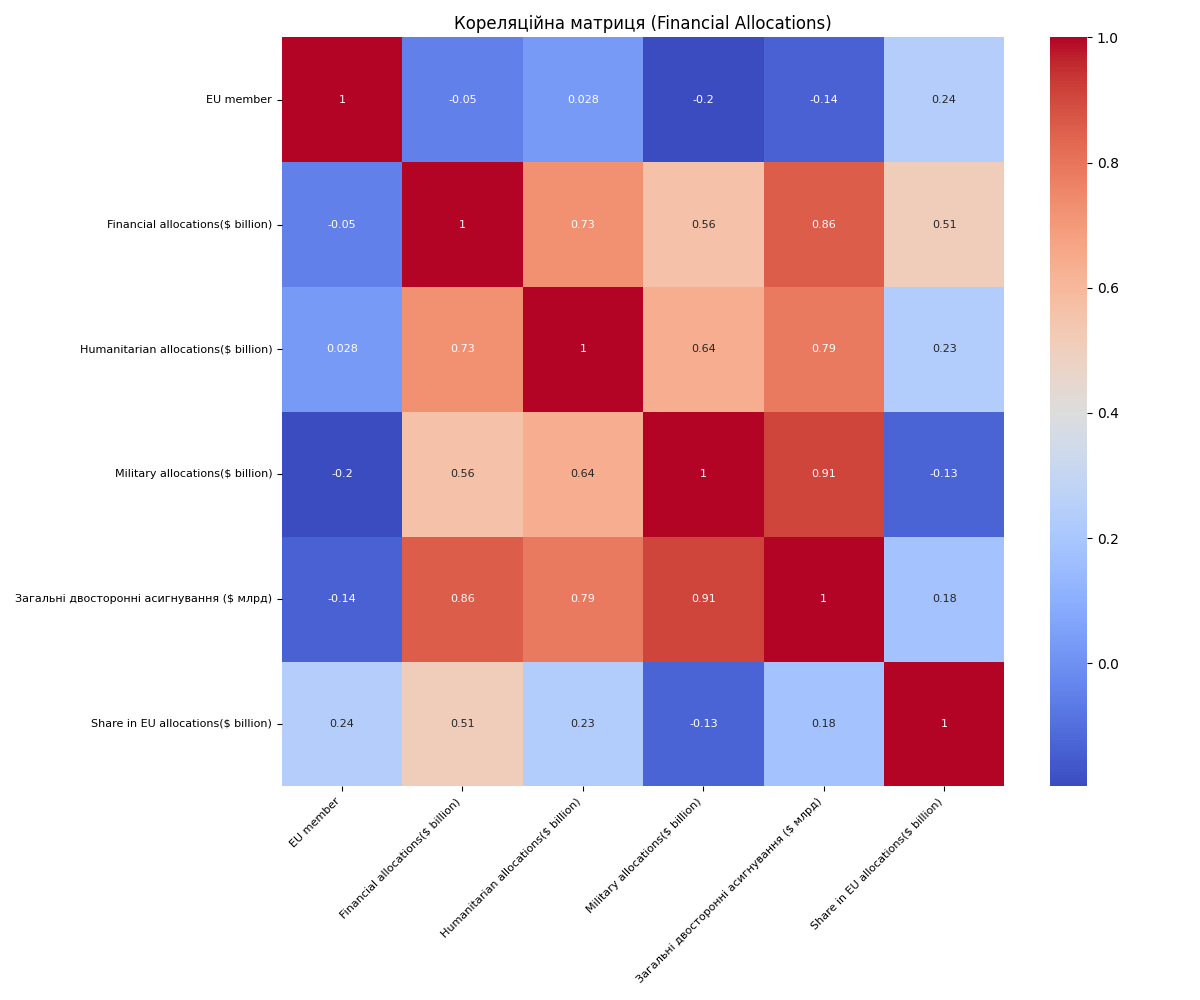
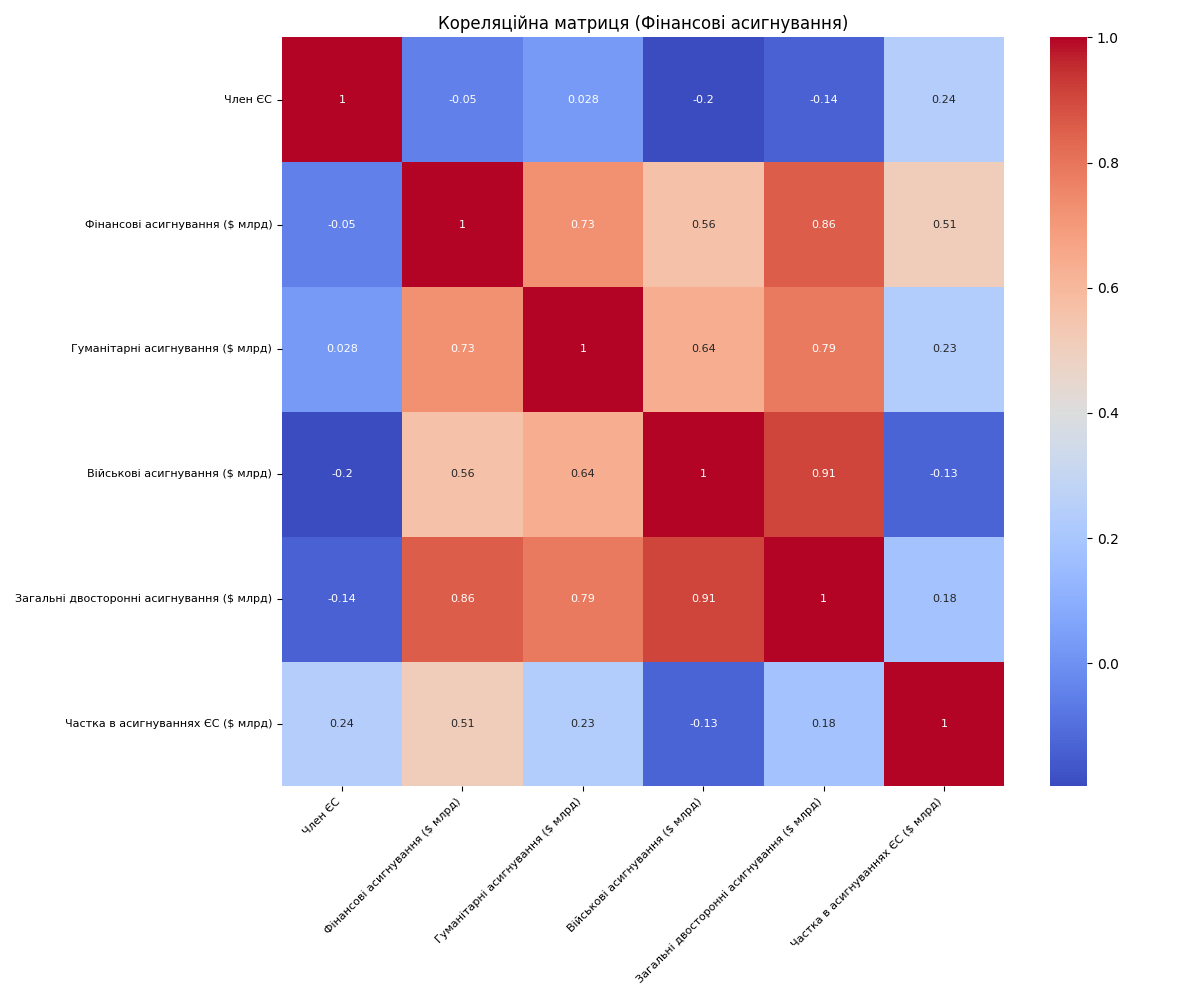
Translate column names in dataset analysis for better readability; update plot titles and x-tick labels to Ukrainian

diff --git a/MIAZ_Practices/Practice_3_3/dataset_analyze.py b/MIAZ_Practices/Practice_3_3/dataset_analyze.py
@@ -136,6 +136,47 @@ def analyze_data(commitments_df, allocations_df, output_dir):
         # Візуалізація даних
         print_and_write("\nВізуалізація даних:")
 
+        merged_data = merged_data.rename(columns={
+                'Total bilateral commitments($ billion)': 'Загальні двосторонні зобов\'язання ($ млрд)',
+                'Total bilateral allocations($ billion)': 'Загальні двосторонні асигнування ($ млрд)',
+                'EU member_commitments': 'Член ЄС (зобов\'язання)',
+                'EU member_allocations': 'Член ЄС (асигнування)',
+                'Financial commitments($ billion)': 'Фінансові зобов\'язання ($ млрд)',
+                'Humanitarian commitments($ billion)': 'Гуманітарні зобов\'язання ($ млрд)',
+                'Military commitments($ billion)': 'Військові зобов\'язання ($ млрд)',
+                'Share in EU commitments($ billion)': 'Частка у зобов\'язаннях ЄС ($ млрд)',
+                'Specific weapons and equipment($ billion)': 'Конкретна зброя та техніка ($ млрд)',
+                'Financial commitments with military purpose($ billion)': 'Фінансові зобов\'язання з військовою метою ($ млрд)',
+                'Total bilateral commitments of short term($ billion)': 'Загальні двосторонні короткострокові зобов\'язання ($ млрд)',
+                'GDP in 2021($ billion)': 'ВВП у 2021 році ($ млрд)',
+                'Financial allocations($ billion)': 'Фінансові асигнування ($ млрд)',
+                'Humanitarian allocations($ billion)': 'Гуманітарні асигнування ($ млрд)',
+                'Military allocations($ billion)': 'Військові асигнування ($ млрд)',
+                'Share in EU allocations($ billion)': 'Частка в асигнуваннях ЄС ($ млрд)'
+            })
+
+        commitments_df = commitments_df.rename(columns={
+            'Total bilateral commitments($ billion)': 'Загальні двосторонні зобов\'язання ($ млрд)',
+            'EU member': 'Член ЄС',
+            'Financial commitments($ billion)': 'Фінансові зобов\'язання ($ млрд)',
+            'Humanitarian commitments($ billion)': 'Гуманітарні зобов\'язання ($ млрд)',
+            'Military commitments($ billion)': 'Військові зобов\'язання ($ млрд)',
+            'Share in EU commitments($ billion)': 'Частка у зобов\'язаннях ЄС ($ млрд)',
+            'Specific weapons and equipment($ billion)': 'Конкретна зброя та техніка ($ млрд)',
+            'Financial commitments with military purpose($ billion)': 'Фінансові зобов\'язання з військовою метою ($ млрд)',
+            'Total bilateral commitments of short term($ billion)': 'Загальні двосторонні короткострокові зобов\'язання ($ млрд)',
+            'GDP in 2021($ billion)': 'ВВП у 2021 році ($ млрд)'
+        })
+
+        allocations_df = allocations_df.rename(columns={
+        'Total bilateral allocations($ billion)': 'Загальні двосторонні асигнування ($ млрд)',
+        'EU member': 'Член ЄС',
+        'Financial allocations($ billion)': 'Фінансові асигнування ($ млрд)',
+            'Humanitarian allocations($ billion)': 'Гуманітарні асигнування ($ млрд)',
+            'Military allocations($ billion)': 'Військові асигнування ($ млрд)',
+            'Share in EU allocations($ billion)': 'Частка в асигнуваннях ЄС ($ млрд)'
+        })
+
         # Гістограма для 'Total bilateral commitments($ billion)'
         plt.figure(figsize=(10, 6))
         sns.histplot(commitments_df['Загальні двосторонні зобов\'язання ($ млрд)'], bins=20, kde=True)
@@ -159,6 +200,7 @@ def analyze_data(commitments_df, allocations_df, output_dir):
         sns.boxplot(x='Член ЄС (зобов\'язання)', y='Загальні двосторонні зобов\'язання ($ млрд)', data=merged_data)
         plt.title('Загальні двосторонні зобов\'язання для країн-членів ЄС та інших країн')
         plt.xlabel('Член ЄС')
+        plt.xticks([0, 1], ['Ні', 'Так'])  # Замінюємо 0 і 1 на "Ні" і "Так"
         plt.ylabel('Загальні двосторонні зобов\'язання ($ млрд)')
         plt.savefig(os.path.join(output_dir, "boxplot_commitments_eu.png"))
         plt.show()
@@ -168,6 +210,7 @@ def analyze_data(commitments_df, allocations_df, output_dir):
         sns.boxplot(x='Член ЄС (асигнування)', y='Загальні двосторонні асигнування ($ млрд)', data=merged_data)
         plt.title('Загальні двосторонні асигнування для країн-членів ЄС та інших країн')
         plt.xlabel('Член ЄС')
+        plt.xticks([0, 1], ['Ні', 'Так'])  # Замінюємо 0 і 1 на "Ні" і "Так"
         plt.ylabel('Загальні двосторонні асигнування ($ млрд)')
         plt.savefig(os.path.join(output_dir, "boxplot_allocations_eu.png"))
         plt.show()
@@ -196,7 +239,7 @@ def analyze_data(commitments_df, allocations_df, output_dir):
         # Кореляційна матриця
         plt.figure(figsize=(12, 10))
         sns.heatmap(commitments_df.corr(numeric_only=True), annot=True, cmap='coolwarm', annot_kws={"fontsize": 8})
-        plt.title('Кореляційна матриця (Financial Commitments)')
+        plt.title('Кореляційна матриця (Фінансові зобов\'язання)')
         plt.xticks(fontsize=8, rotation=45, ha='right')
         plt.yticks(fontsize=8, rotation=0)
         plt.tight_layout()
@@ -205,7 +248,7 @@ def analyze_data(commitments_df, allocations_df, output_dir):
 
         plt.figure(figsize=(12, 10))
         sns.heatmap(allocations_df.corr(numeric_only=True), annot=True, cmap='coolwarm', annot_kws={"fontsize": 8})
-        plt.title('Кореляційна матриця (Financial Allocations)')
+        plt.title('Кореляційна матриця (Фінансові асигнування)')
         plt.xticks(fontsize=8, rotation=45, ha='right')
         plt.yticks(fontsize=8, rotation=0)
         plt.tight_layout()
